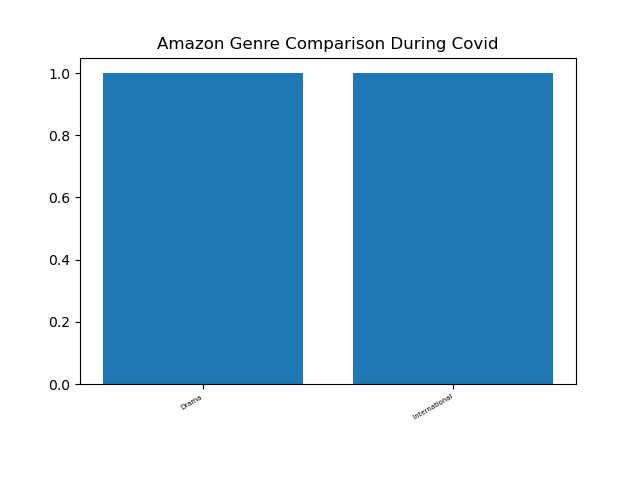
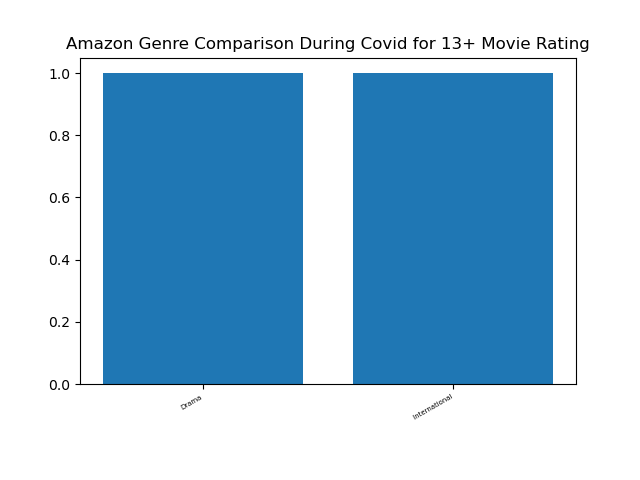
gl:)

Changed region(s): [[0.0938, 0.0625, 0.9375, 0.125]]

diff --git a/main.py b/main.py
@@ -2,7 +2,7 @@
 import seaborn as sns
 import matplotlib.pyplot as plt
 import pandas as pd
-from cleaning import covid_data, non_covid_data
+from cleaning import covid_data, non_covid_data, read_file
 
 
 def top_rating_genres(data):
@@ -26,7 +26,7 @@ def netflix_genre_plot(dic):
     plt.bar(keys, values)
     plt.xticks(fontsize=5)
     plt.gcf().autofmt_xdate()
-    plt.title("Netflix Genre Comparison During Covid")
+    plt.title("Netflix Genre Comparison During Covid for TV-MA Movie Rating")
     plt.savefig("netflix_genre_comparison.png")
     plt.close()
 
@@ -37,7 +37,7 @@ def disney_genre_plot(dic):
     plt.bar(keys, values)
     plt.xticks(fontsize=5)
     plt.gcf().autofmt_xdate()
-    plt.title("Disney Genre Comparison During Covid")
+    plt.title("Disney Genre Comparison During Covid for G Movie Rating")
     plt.savefig("disney_genre_comparison.png")
     plt.close()
     
@@ -48,28 +48,45 @@ def amazon_genre_plot(dic):
     plt.bar(keys, values)
     plt.xticks(fontsize=5)
     plt.gcf().autofmt_xdate()
-    plt.title("Amazon Genre Comparison During Covid")
+    plt.title("Amazon Genre Comparison During Covid for 13+ Movie Rating")
     plt.savefig("amazon_genre_comparison.png")
     plt.close()
 
 
-def compare_implement_foreign(data_covid, data_non_covid):
-    data_covid = data_covid.dropna(subset=["country"])
-    data_non_covid = data_non_covid.dropna(subset=["country"])
-    countries = data_covid["country"].str.split(",")
-    for i in countries:
-        if len(i) > 1:
-            data_covid["country"] = data_covid["country"].replace(i, "Foreign")
-        #     for j in i:
-        #         if j == "United States":
-        #             data_covid["country"] = data_covid["country"].replace(i, "Domestic")
-        #         else:
-        #             data_covid["country"] = data_covid["country"].replace(i, "Foreign")
-        # elif len(i) > 1:
-        #     data_covid["country"] = data_covid["country"].replace(i, "Foreign")
-    print(data_covid["country"])
+def disney_compare_implement_foreign(data):
+    data = data.dropna(subset=["country"])
+    filter_country = ["United States"]
+    filtered_data = data[~data.country.isin(filter_country)]
+    filtered_data = filtered_data.groupby(pd.Grouper(freq="Y"))
+    result_df = filtered_data["country"].count()
+    result_df.plot(kind="pie")
+    plt.title("Proportion of Added Foreign Movie/TV show in Disney Per Year")
+    plt.savefig("disney_foreign_implementation.png")
+    plt.close()
 
 
+def netflix_compare_implement_foreign(data):
+    data = data.dropna(subset=["country"])
+    filter_country = ["United States"]
+    filtered_data = data[~data.country.isin(filter_country)]
+    filtered_data = filtered_data.groupby(pd.Grouper(freq="Y"))
+    result_df = filtered_data["country"].count()
+    result_df.plot(kind="pie")
+    plt.title("Proportion of Added Foreign Movie/TV show in Netflix Per Year")
+    plt.savefig("netflix_foreign_implementation.png")
+    plt.close()
+
+
+def amazon_compare_implement_foreign(data):
+    data = data.dropna(subset=["country"])
+    filter_country = ["United States"]
+    filtered_data = data[~data.country.isin(filter_country)]
+    filtered_data = filtered_data.groupby(pd.Grouper(freq="Y"))
+    result_df = filtered_data["country"].count()
+    result_df.plot(kind="pie")
+    plt.title("Proportion of Added Foreign Movie/TV show in Amazon Prime Per Year")
+    plt.savefig("amazon_foreign_implementation.png")
+    plt.close()
 
 
 def main():
@@ -84,8 +101,9 @@ def main():
     amazon_genres = top_rating_genres(amazon_covid)
     amazon_genre_plot(amazon_genres)
     # Q3
-    disney_non_covid = non_covid_data("data/disney_plus_titles.csv")
-    compare_implement_foreign(disney_covid, disney_non_covid)
+    disney_compare_implement_foreign(read_file("data/disney_plus_titles.csv"))
+    netflix_compare_implement_foreign(read_file("data/netflix_titles.csv"))
+    amazon_compare_implement_foreign(read_file("data/amazon_prime_titles.csv"))
 
 if __name__ == '__main__':
     main()

diff --git a/cleaning.py b/cleaning.py
@@ -19,6 +19,11 @@ def non_covid_data(file):
     return data_non_covid
 
 
+def read_file(file):
+    data = pd.read_csv(file, index_col="date_added", parse_dates=True)
+    return data
+
+
 def main():
     pass
 
